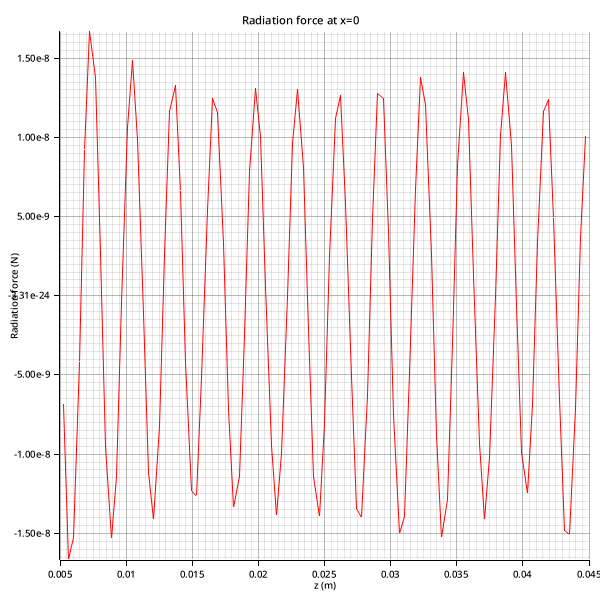
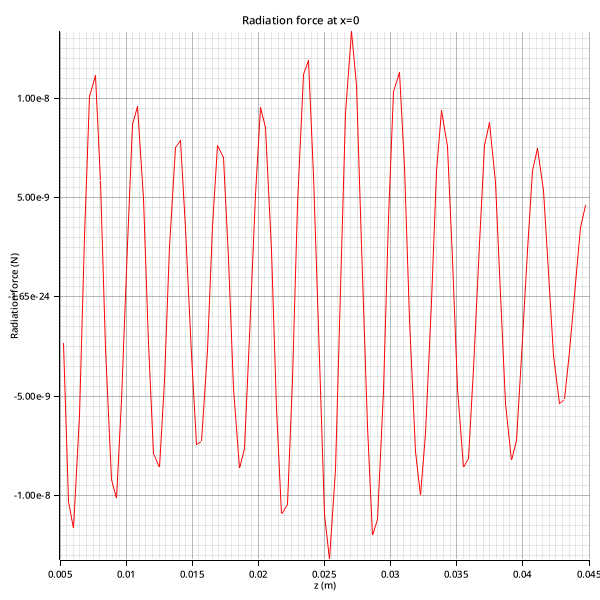
+offset+phase

Changed region(s): [[0.0, 0.06, 0.99, 0.93]]

diff --git a/src/matrix_method/mod.rs b/src/matrix_method/mod.rs
@@ -47,11 +47,11 @@ pub const MM: f64 = 1e-3;
 const I: Complex<f64> = Complex::I;
 
 // Define air constants at 20°C (https://en.wikipedia.org/wiki/Density_of_air)
-// pub const RHO: Complex<f64> = Complex::new(1.2041, 0.0); // Density of air in Raleigh, kg/m^3
-// pub const C: Complex<f64> = Complex::new(343.21, 0.0); // Speed of sound in air, m/s
+// pub const RHO: f64 = 1.2041; // Density of air in Raleigh, kg/m^3
+// pub const C: f64 = 343.21; // Speed of sound in air, m/s
 
-pub const RHO: Complex<f64> = Complex::new(1.214, 0.0); // Density of air in Raleigh, kg/m^3
-pub const C: Complex<f64> = Complex::new(340.1, 0.0); // Speed of sound in air, m/s
+pub const RHO: f64 = 1.214; // Density of air in Raleigh, kg/m^3
+pub const C: f64 = 340.1; // Speed of sound in air, m/s
 
 /* Parameters */
 
@@ -71,12 +71,16 @@ pub struct SimulationParametersArgs {
     pub disc: f64,
 
     // Transducer parameters
+    /// Transducer offset on x-axis, m
+    pub offset: f64,
     /// Transducer radius, m
     pub radius: f64,
     /// Transducer hole, m
     pub hole_radius: f64,
     /// Resonante Frequency, Hz
-    pub freq: Complex<f64>,
+    pub freq: f64,
+    /// Transducer phase offset, degree
+    pub phase: f64,
     /// Displacement amplitude, m          
     pub u_0: f64,
     /// Transducer tilt, deg
@@ -100,13 +104,18 @@ impl From<SimulationParametersArgs> for SimulationParameters {
             x_max,
             z_min,
             z_max,
+
             nb_of_reflection,
             disc,
+
+            offset,
             radius,
             hole_radius,
             freq,
+            phase,
             u_0,
             inclination,
+
             curvature,
             ..
         }: SimulationParametersArgs,
@@ -116,27 +125,33 @@ impl From<SimulationParametersArgs> for SimulationParameters {
             x_max,
             z_min,
             z_max,
+
             nb_of_reflection,
             disc,
+
+            offset,
             radius,
-            transducer_area: Complex::new(PI * radius * radius, 0.0),
+            transducer_area: PI * radius * radius,
             hole_radius,
-            hole_area: Complex::new(PI * hole_radius * hole_radius, 0.0),
+            hole_area: PI * hole_radius * hole_radius,
             freq,
+            phase,
             u_0,
             inclination,
-            reflector_area: Complex::new(PI * ((x_max * x_max) / 4.0), 0.0),
+
+            reflector_area: PI * ((x_max * x_max) / 4.0),
             curvature,
-            wavelength: Complex::new(C.re / freq.re, 0.0),
-            omega: Complex::new(2.0 * PI * freq.re, 0.0),
+
+            wavelength: C / freq,
+            omega: 2.0 * PI * freq,
             // to be computed
-            wavenumber: Complex::ZERO,
+            wavenumber: 0.0,
             e: Complex::ZERO,
-            d: Complex::ZERO,
+            d: 0.0,
         };
-        sp.wavenumber = Complex::new(sp.omega.re / C.re, 0.0);
-        sp.e = Complex::new(0.0, 1.0 / sp.wavelength.re);
-        sp.d = Complex::new((sp.omega.re * RHO.re * C.re) / sp.wavelength.re, 0.0);
+        sp.wavenumber = sp.omega / C;
+        sp.e = Complex::new(0.0, 1.0 / sp.wavelength);
+        sp.d = (sp.omega * RHO * C) / sp.wavelength;
         sp
     }
 }
@@ -155,24 +170,26 @@ pub struct SimulationParameters {
     disc: f64, // Discretization step size, m
 
     // Transducer parameters
-    radius: f64,                   // Transducer radius, m
-    transducer_area: Complex<f64>, // Transducer area, m^2
-    hole_radius: f64,              // Transducer hole, m
-    hole_area: Complex<f64>,       // Transducer hole area, m^2
-    freq: Complex<f64>,            // Resonante Frequency, Hz
-    u_0: f64,                      // Displacement amplitude, m
-    inclination: f64,              // Transducer tilt, deg
+    offset: f64,          // Transducer offset on x-axis, m
+    radius: f64,          // Transducer radius, m
+    transducer_area: f64, // Transducer area, m^2
+    hole_radius: f64,     // Transducer hole, m
+    hole_area: f64,       // Transducer hole area, m^2
+    freq: f64,            // Resonante Frequency, Hz
+    phase: f64,           // Transducer phase offset, degree
+    u_0: f64,             // Displacement amplitude, m
+    inclination: f64,     // Transducer tilt, degree
 
     // Reflector parameters
-    reflector_area: Complex<f64>,
+    reflector_area: f64,
     curvature: f64, // Reflector curvature radius, m. **NOT IMPLEMENTED YET**
 
     // Other computed constants
-    wavelength: Complex<f64>, // Wavelength, m
-    omega: Complex<f64>,      // Angular frequency, rad/s
-    wavenumber: Complex<f64>, // Wavenumber - k
-    e: Complex<f64>,          // Constant used for reflected waves
-    d: Complex<f64>,          // Constant used for transmitted wave
+    wavelength: f64, // Wavelength, m
+    omega: f64,      // Angular frequency, rad/s
+    wavenumber: f64, // Wavenumber - k
+    e: Complex<f64>, // Constant used for reflected waves
+    d: f64,          // Constant used for transmitted wave
 }
 
 /* DEFAULT SIMULATION */
@@ -184,14 +201,20 @@ impl Default for SimulationParametersArgs {
             x_max: 50.0 * MM,
             z_min: 0.0 * MM,
             z_max: 50.0 * MM,
+
             nb_of_reflection: 4,
             disc: 0.4 * MM,
+
+            offset: 0.0 * MM,
             radius: 15.0 * MM,
             hole_radius: 2.0 * MM,
-            freq: Complex::new(56000.0, 0.0),
+            freq: 56000.0,
+            phase: 0.0,
             u_0: 0.0000060,
             inclination: 0.0,
+
             curvature: 0.0,
+
             sphere_radius: 0.1 * MM, // wavelength=6.1mm
         }
     }

diff --git a/src/matrix_method/pressure_field.rs b/src/matrix_method/pressure_field.rs
@@ -2,7 +2,11 @@ use ndarray::{array, Array1, Array2};
 
 use super::*;
 
-/// compute the pressure field for each points thanks to the matrix method
+pub fn compute_pressure_fields(simulations_params: &[impl Into<SimulationParameters>]) {
+    // t_2tm = t_t1m+t_t2m
+}
+
+/// compute the pressure field for each points thanks to the matrix method - **only for 1 transducer**
 ///
 /// Output a **complex** field, only the real part of the field correspond to the actual pressure field
 #[allow(non_snake_case)]
@@ -12,21 +16,28 @@ pub fn compute_pressure_field(simulation_params: impl Into<SimulationParameters>
         x_max,
         z_min,
         z_max,
+
         nb_of_reflection,
         disc,
+
+        offset,
         radius: R,
         transducer_area,
         hole_area,
+        phase,
         u_0,
         inclination,
+
         reflector_area,
+
         omega,
         wavenumber,
         e,
         d,
         ..
     }: SimulationParameters = simulation_params.into();
-    let inclination = inclination * PI / 180.0; // convert deg to rad
+    // convert deg to rad
+    let (inclination, phase) = (inclination.to_radians(), phase.to_radians());
 
     // Array indices
     let N: usize = ((2.0 * R) / disc) as usize;
@@ -39,7 +50,12 @@ pub fn compute_pressure_field(simulation_params: impl Into<SimulationParameters>
     let z: Array1<f64> = Array1::linspace(z_min, z_max, Z);
     let transducer: Array1<(f64, f64)> = Array1::linspace(-R, R, N)
         .map(|x| rotation_matrix(inclination).dot(&array![[*x], [0.0]]))
-        .map(|x| (x[[0, 0]], x[[1, 0]] + R * inclination.abs().sin() + z_max));
+        .map(|x| {
+            (
+                x[[0, 0]] + offset,
+                x[[1, 0]] + R * inclination.abs().sin() + z_max,
+            )
+        });
 
     // Create zeroed distance arrays in memory
     let mut r_nm: Array2<f64> = Array2::zeros((N, M));
@@ -128,11 +144,11 @@ pub fn compute_pressure_field(simulation_params: impl Into<SimulationParameters>
     #[allow(non_snake_case)]
     let mut U: Array2<Complex<f64>> = Array2::zeros((N, 1));
     for i in 0..N {
-        U[[i, 0]] = u_0 * (I * omega).exp()
+        U[[i, 0]] = u_0 * (I * (omega + phase)).exp()
     }
 
     // Calculation of pressure, where each reflection is an order of approximation
-    let mut pressure_base = d * t_tm.dot(&U);
+    let mut pressure_base = Complex::new(d, 0.0) * t_tm.dot(&U);
     for n in 1..=nb_of_reflection {
         pressure_base = pressure_base
             + (d * e.powu(n as u32)) * nth_reflection(n, [&t_tm, &t_tr, &t_rt, &t_rm, &U]);

diff --git a/src/plot/graph.rs b/src/plot/graph.rs
@@ -77,13 +77,13 @@ pub fn graph_field(
 
     // verification
     if field_type == FieldType::RadiationForce && inclination == 0.0 && curvature == 0.0 {
-        let k = 2.0 * PI * freq.re / C.re;
+        let k = 2.0 * PI * freq / C;
         chart.draw_series(LineSeries::new(
             data.iter().map(|&(z, _)| {
                 (
                     z,
                     (5.0 * PI * sphere_radius.powi(3) * k * 2200_f64.powi(2)
-                        / (6.0 * RHO.re * C.re.powi(2)))
+                        / (6.0 * RHO * C.powi(2)))
                         * (2.0 * k * z).sin(),
                 )
             }),

diff --git a/src/main.rs b/src/main.rs
@@ -20,14 +20,20 @@ fn main() {
         x_max: 50.0 * MM,
         z_min: 0.0 * MM,
         z_max: 50.0 * MM,
+
         nb_of_reflection: 4,
         disc: 0.4 * MM,
+
+        offset: -30.0 * MM,
         radius: 15.0 * MM,
         hole_radius: 2.0 * MM,
-        freq: Complex::new(56000.0, 0.0),
+        freq: 56000.0,
+        phase: 0.0,
         u_0: 0.0000060,
         inclination: 17.0,
+
         curvature: 0.0,
+
         sphere_radius: 0.1 * MM, // wavelength=6.1mm
     };
     // let simulation_parameters = SimulationParametersArgs::default();

diff --git a/src/matrix_method/potential_field.rs b/src/matrix_method/potential_field.rs
@@ -141,7 +141,7 @@ pub fn compute_relative_potential_field(
             }
             let (pmsa, vmsa) = (p_sum / nb_of_neighbor as f64, v_sum / nb_of_neighbor as f64);
             relative_acoustic_potential[[i, j]] =
-                (pmsa / (3.0 * RHO.re * C.re.powi(2))) - ((RHO.re * vmsa) / 2.0);
+                (pmsa / (3.0 * RHO * C.powi(2))) - ((RHO * vmsa) / 2.0);
         }
     }
 

diff --git a/README.md b/README.md
@@ -23,5 +23,4 @@ The core of this repo is heavely inspired by [slkiser's](https://github.com/slki
 
 ## Remaining
 
-- add multiple pressure field from multiple transducer + tilt
-- reflector curvature
+- add multiple pressure field from multiple transducer
